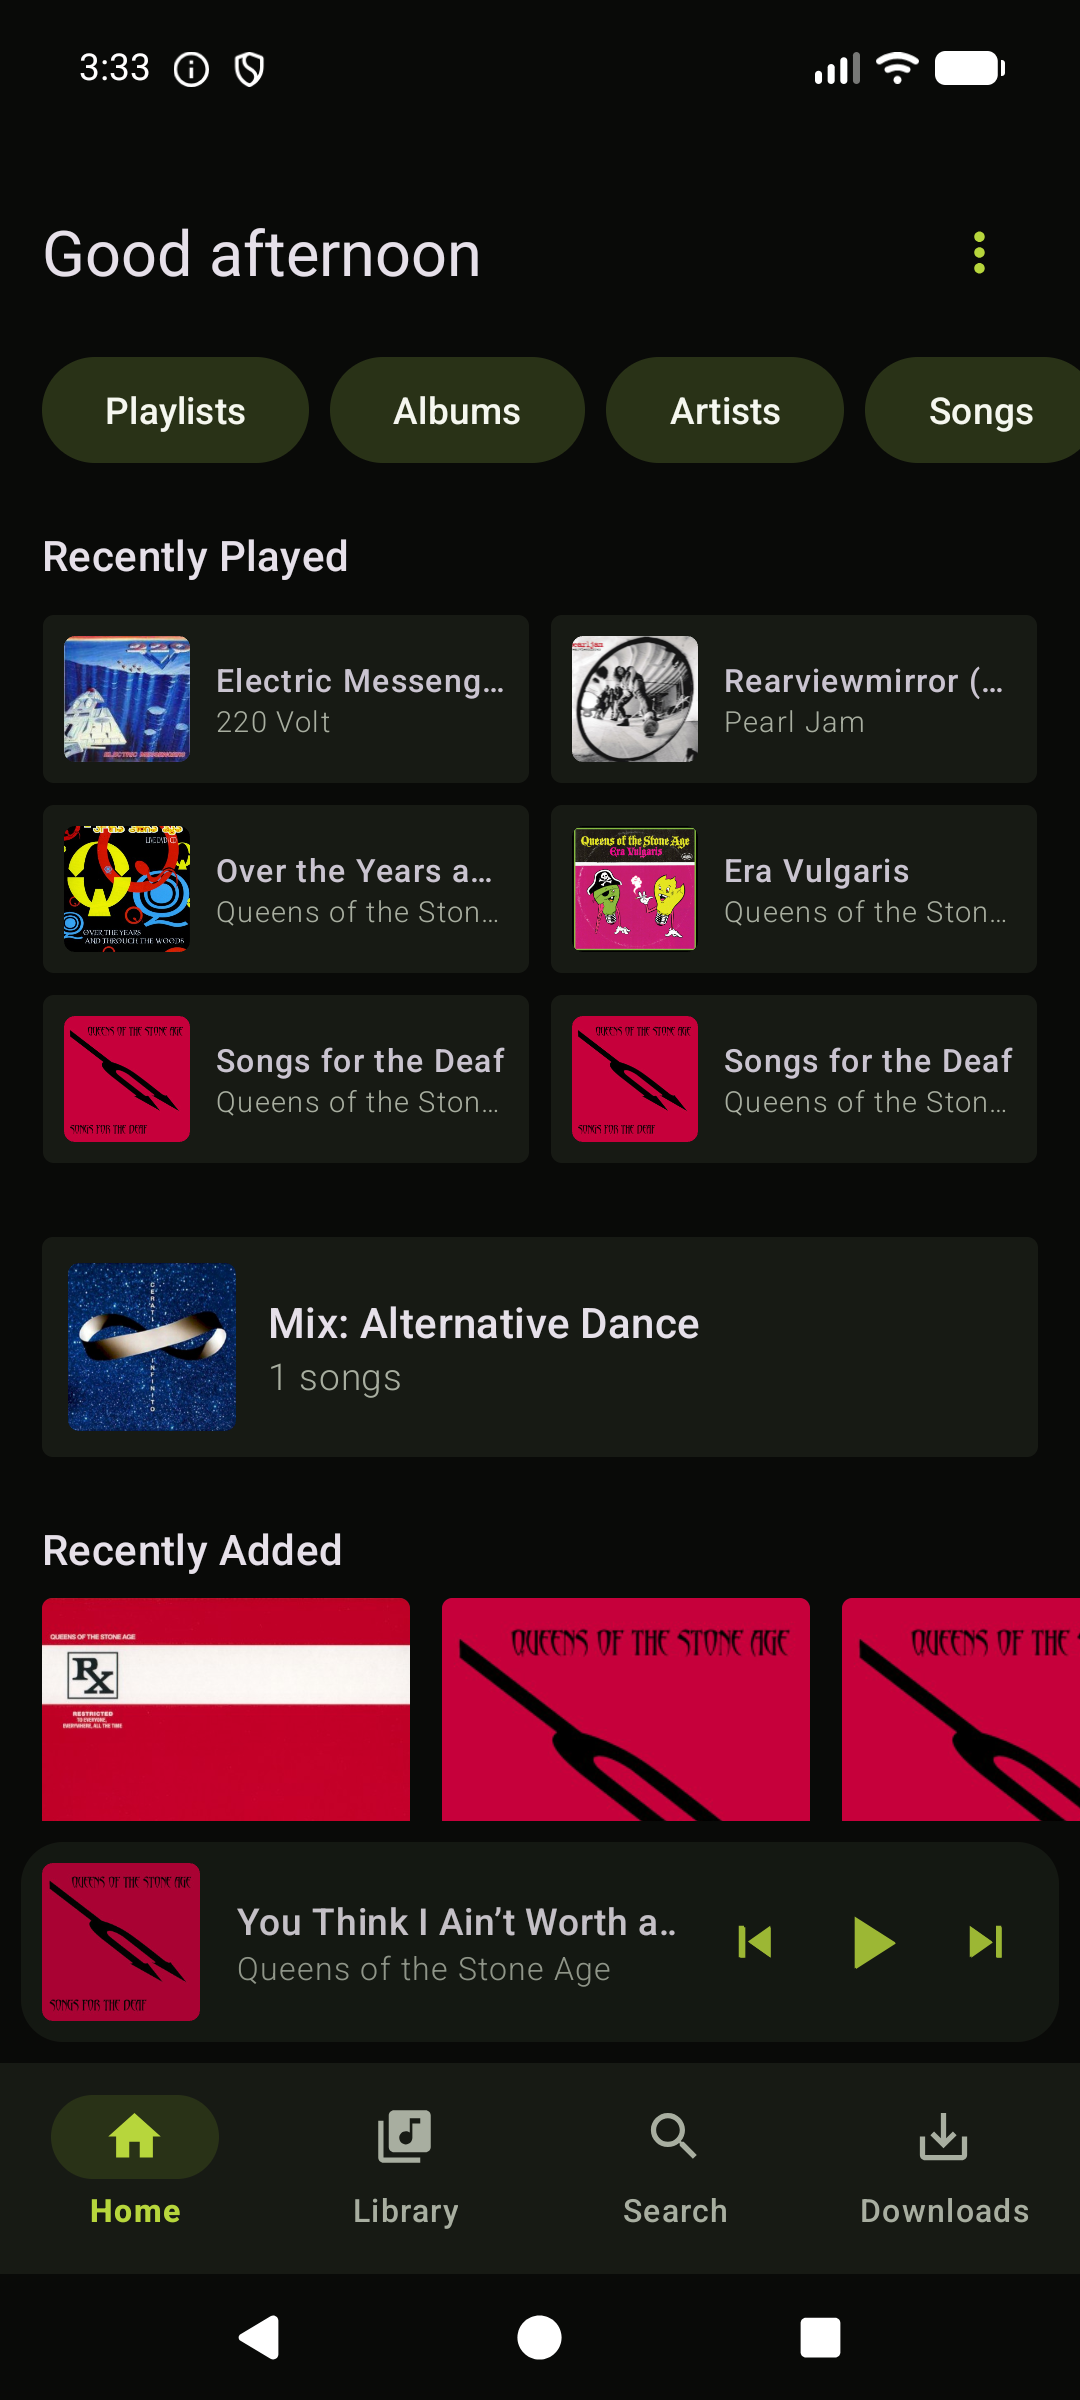
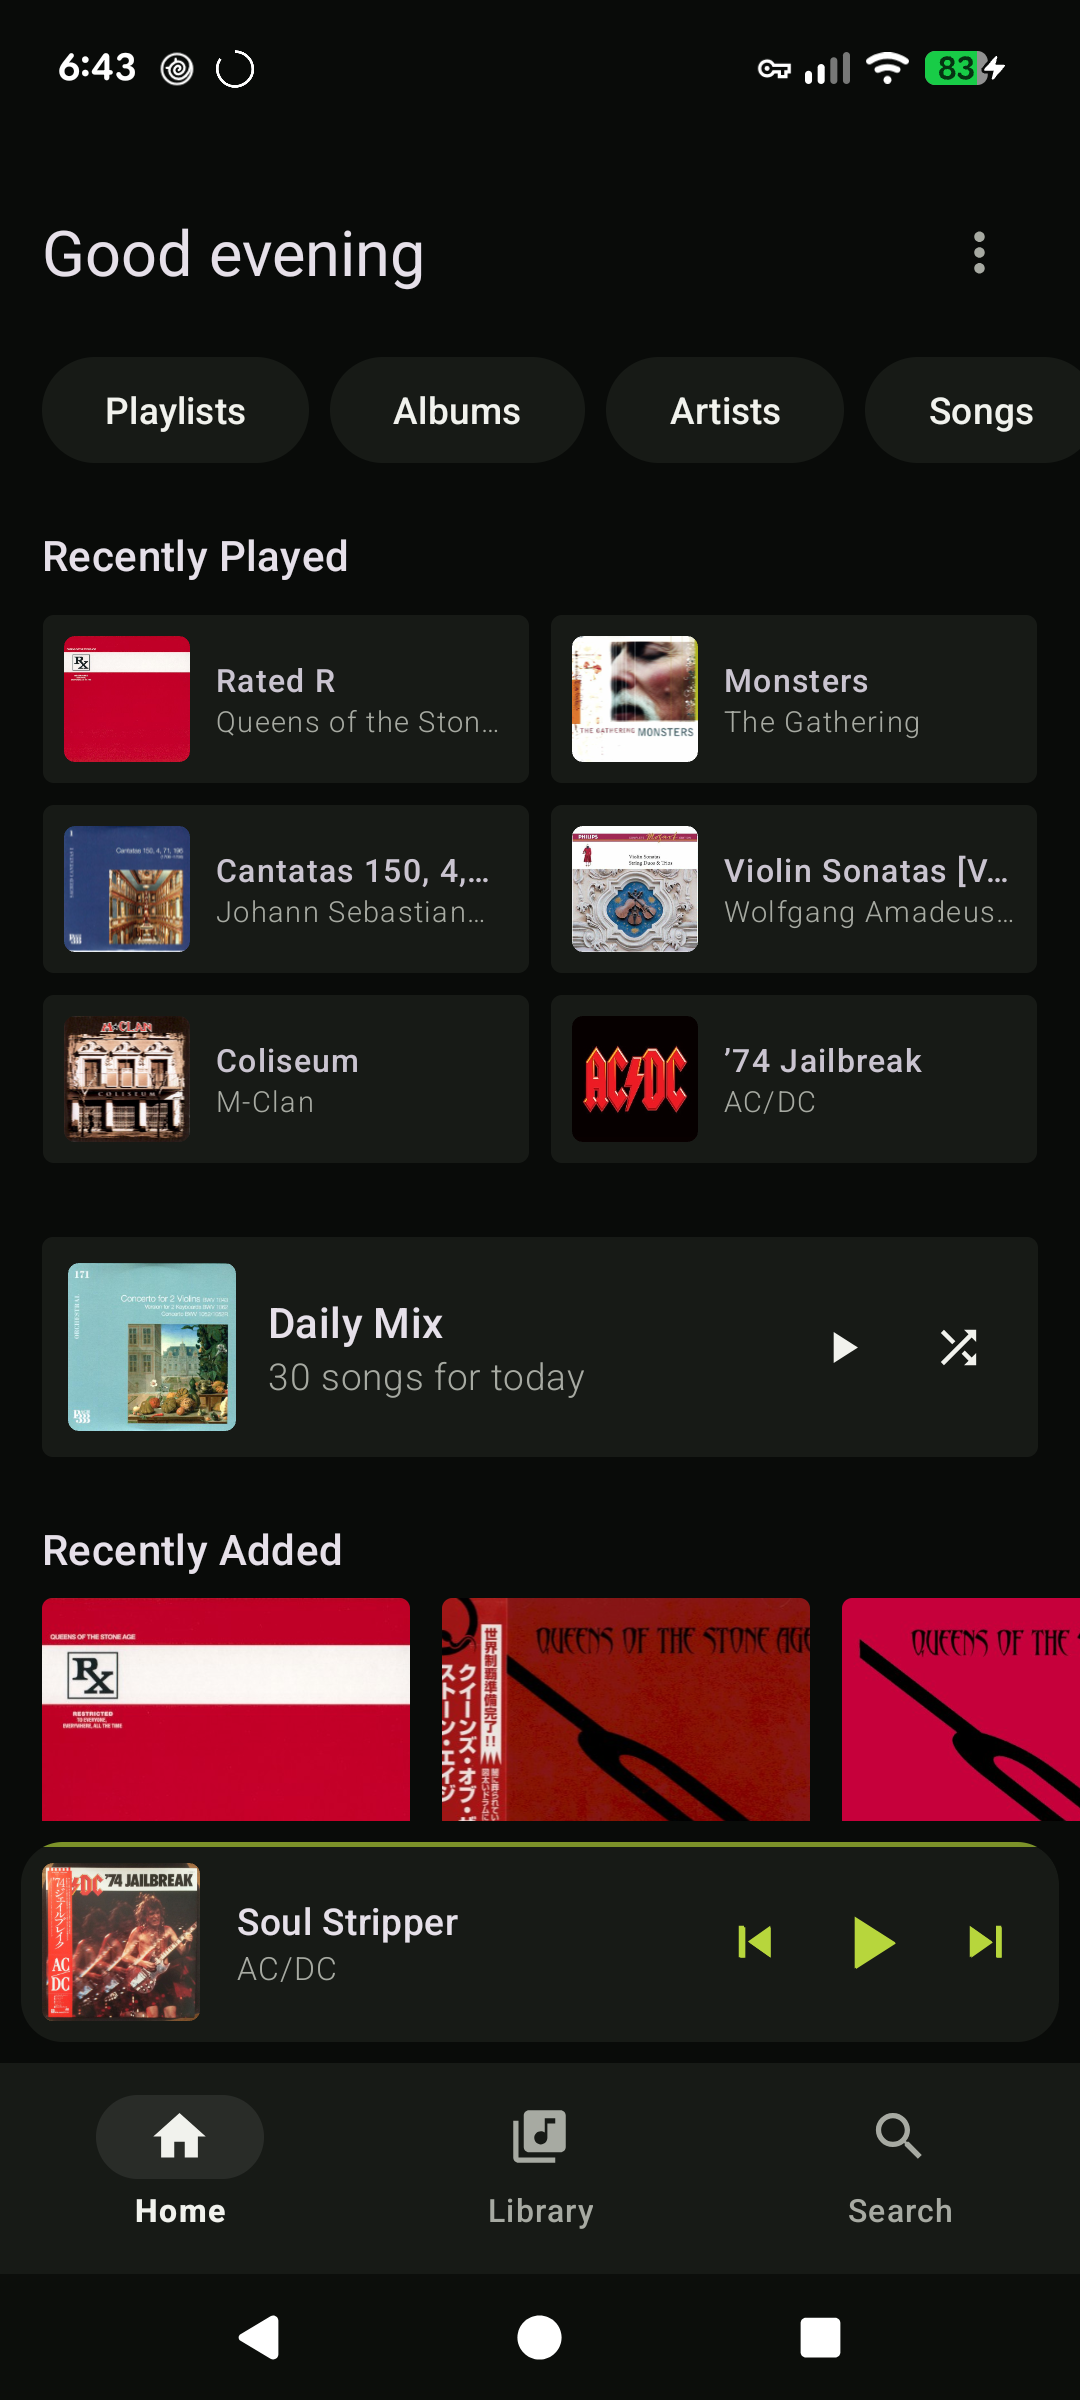
Refresh beta screenshots and public repository presentation
Replace stale screenshots (predating the bottom-nav simplification
that dropped the standalone Downloads tab) with 5 current captures
from the real Pixel 7: Home, Library, Album, Now Playing, and Search.
Update README to display all 5.

diff --git a/README.md b/README.md
@@ -9,9 +9,11 @@ Taki is a focused Android music player that makes a personal music library feel 
 ## Screenshots
 
 <p align="center">
-  <img src="fastlane/metadata/android/en-US/images/phoneScreenshots/1_en-US.png" alt="Taki Home" width="30%" />
-  <img src="fastlane/metadata/android/en-US/images/phoneScreenshots/2_en-US.png" alt="Taki Library" width="30%" />
-  <img src="fastlane/metadata/android/en-US/images/phoneScreenshots/3_en-US.png" alt="Taki Now Playing" width="30%" />
+  <img src="fastlane/metadata/android/en-US/images/phoneScreenshots/1_en-US.png" alt="Taki Home" width="18%" />
+  <img src="fastlane/metadata/android/en-US/images/phoneScreenshots/2_en-US.png" alt="Taki Library" width="18%" />
+  <img src="fastlane/metadata/android/en-US/images/phoneScreenshots/3_en-US.png" alt="Taki Album" width="18%" />
+  <img src="fastlane/metadata/android/en-US/images/phoneScreenshots/4_en-US.png" alt="Taki Now Playing" width="18%" />
+  <img src="fastlane/metadata/android/en-US/images/phoneScreenshots/5_en-US.png" alt="Taki Search" width="18%" />
 </p>
 
 ## Why Taki?
